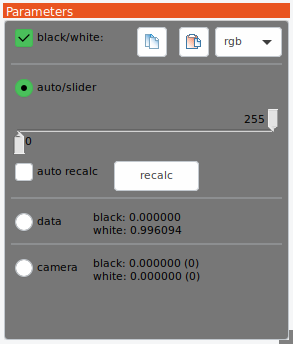
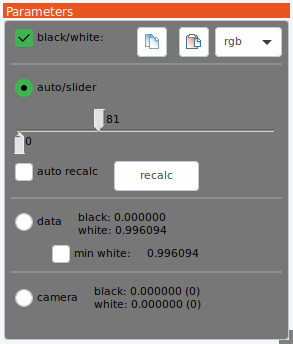
blackwhitepoint doc, img command

diff --git a/doc/img.html b/doc/img.html
@@ -72,4 +72,4 @@ filename, or overwrite the original img-produced JPEG</li>
 <h3>img Tools</h3>
 
 <ul>
-<li>addexif:tagname,value - tagname must be valid EXIF tag for it to survive the file save...</li><li>blackwhitepoint[:rgb|red|green|blue][,0-127,128-255] default: auto blackwhitepoint determination. The calculated points will be used in the metafile entry.</li><li>bright:[-100 - 100] default: 0 (no-bright)</li><li>colorspace:profilefile[,convert|assign][,renderingintent][,bpc]</li><li>contrast:[-100 - 100] default: 0 (no-contrast)</li><li>crop:x,y,w,y  no defaults</li><li>curve:[rgb,|red,|green,|blue,]x1,y1,x2,y2,...xn,yn  Default channel: rgb</li><li>demosaic:[half|half_resize|color|vng|amaze|dcb|rcd|igv|lmmse|ahd] default: ahd</li><li>denoise:[0 - 100.0],[1-10],[1-10], default=0.0,1,3</li><li>exposure:ev default: 1.0</li><li>gamma:[0.0-5.0] default: 1.0 (linear, or no-gamma)</li><li>gray:[r,g,b] default: 0.21,0.72,0.07</li> <li>group:command;command;...</li><li>highlight:1-10</li><li>hmirror - flip horizontal</li><li>resize:w[,h] If either w or h is 0, resize preserves aspect of that dimension.  If only one number is present, the image is resized to that number along the longest dimension, preserving aspect.</li><li>rotate180 - rotate 180 degrees</li><li>rotate270 - rotate 270 degrees clockwise</li><li>rotate90 - rotate 90 degrees clockwise</li><li>rotate:[-45.0 - 45.0] default: 0 (no-rotate)</li><li>saturation:[0 - 5.0] default=1.0, no change</li><li>shadow:1-10</li><li>sharpen:[0 - 10, default: 0 (no-sharpen)</li><li>subtract:val|camera|file,filename  val=a float value, "camera" retrieves the camera </li><li>tint:[r,g,b] default: 0,0,0 (doesn't have a corresponding tool in rawproc)</li><li>vmirror - flip upside down</li>	<li>whitebalance:[auto]|[patch]|[camera]|[rmult,gmult,bmult] default: auto, based on "gray world"</li></ul></body></html>
+<li>addexif:tagname,value - tagname must be valid EXIF tag for it to survive the file save...</li><li>blackwhitepoint[:rgb|red|green|blue|data|camera|auto][,0-127,128-255]|[,minwhite] default: auto blackwhitepoint determination. The calculated points will be used in the metafile entry. 'data' can be used either as the first parameter or following a channel specification, will use the mins and maxes for the specified channel, or total rgb.  'minwhite' can follow 'data', will use the minimum of the channel maxiumums, useful for highlight clipping of saturated values.</li><li>bright:[-100 - 100] default: 0 (no-bright)</li><li>colorspace:profilefile[,convert|assign][,renderingintent][,bpc]</li><li>contrast:[-100 - 100] default: 0 (no-contrast)</li><li>crop:x,y,w,y  no defaults</li><li>curve:[rgb,|red,|green,|blue,]x1,y1,x2,y2,...xn,yn  Default channel: rgb</li><li>demosaic:[half|half_resize|color|vng|amaze|dcb|rcd|igv|lmmse|ahd] default: ahd</li><li>denoise:[0 - 100.0],[1-10],[1-10], default=0.0,1,3</li><li>exposure:ev default: 1.0</li><li>gamma:[0.0-5.0] default: 1.0 (linear, or no-gamma)</li><li>gray:[r,g,b] default: 0.21,0.72,0.07</li> <li>group:command;command;...</li><li>highlight:1-10</li><li>hmirror - flip horizontal</li><li>resize:w[,h] If either w or h is 0, resize preserves aspect of that dimension.  If only one number is present, the image is resized to that number along the longest dimension, preserving aspect.</li><li>rotate180 - rotate 180 degrees</li><li>rotate270 - rotate 270 degrees clockwise</li><li>rotate90 - rotate 90 degrees clockwise</li><li>rotate:[-45.0 - 45.0] default: 0 (no-rotate)</li><li>saturation:[0 - 5.0] default=1.0, no change</li><li>shadow:1-10</li><li>sharpen:[0 - 10, default: 0 (no-sharpen)</li><li>subtract:val|camera|file,filename  val=a float value, "camera" retrieves the camera </li><li>tint:[r,g,b] default: 0,0,0 (doesn't have a corresponding tool in rawproc)</li><li>vmirror - flip upside down</li>	<li>whitebalance:[auto]|[patch]|[camera]|[rmult,gmult,bmult] default: auto, based on "gray world"</li></ul></body></html>

diff --git a/doc/blackwhitepoint.html b/doc/blackwhitepoint.html
@@ -25,7 +25,12 @@ if you've set the points manually, checking this box will do away with those set
 auto-calculated settings.</p>
 </li>
 
-<li><b>data:</b>  This mode scales the image data to the min and max of the previous tool's image.
+<li><b>data:</b>  This mode scales the image data to the min and max of the previous tool's image.  These are the mins and maxes of all three channels, so the black and white point will precisely bound the complete image data.
+	<ul>
+	<li><b>minwhite:</b>If checked, the maxwhite will be the minimum of the three channels's max values.
+	This is useful for scaling image data to the lowest saturation point; if there was saturation clipping,
+	this avoids the dreaded magenta cast.</li>
+	</ul>
 </li>
 
 <li><b>camera:</b>  This mode scales the image data to the min and max values communicated in the raw file

diff --git a/src/gimage_cmd.cpp b/src/gimage_cmd.cpp
@@ -244,7 +244,7 @@ std::string do_cmd(gImage &dib, std::string commandstr, std::string outfile, boo
 			dib.setInfo(std::string(name),std::string(value));
 		}
 
-		//img <li>blackwhitepoint[:rgb|red|green|blue][,0-127,128-255] default: auto blackwhitepoint determination. The calculated points will be used in the metafile entry.</li>
+		//img <li>blackwhitepoint[:rgb|red|green|blue|data|camera|auto][,0-127,128-255]|[,minwhite] default: auto blackwhitepoint determination. The calculated points will be used in the metafile entry. 'data' can be used either as the first parameter or following a channel specification, will use the mins and maxes for the specified channel, or total rgb.  'minwhite' can follow 'data', will use the minimum of the channel maxiumums, useful for highlight clipping of saturated values.</li>
 		else if (strcmp(cmd,"blackwhitepoint") == 0) {   
 			char *c, *b, *w, *m;
 			GIMAGE_CHANNEL channel = CHANNEL_RGB;
